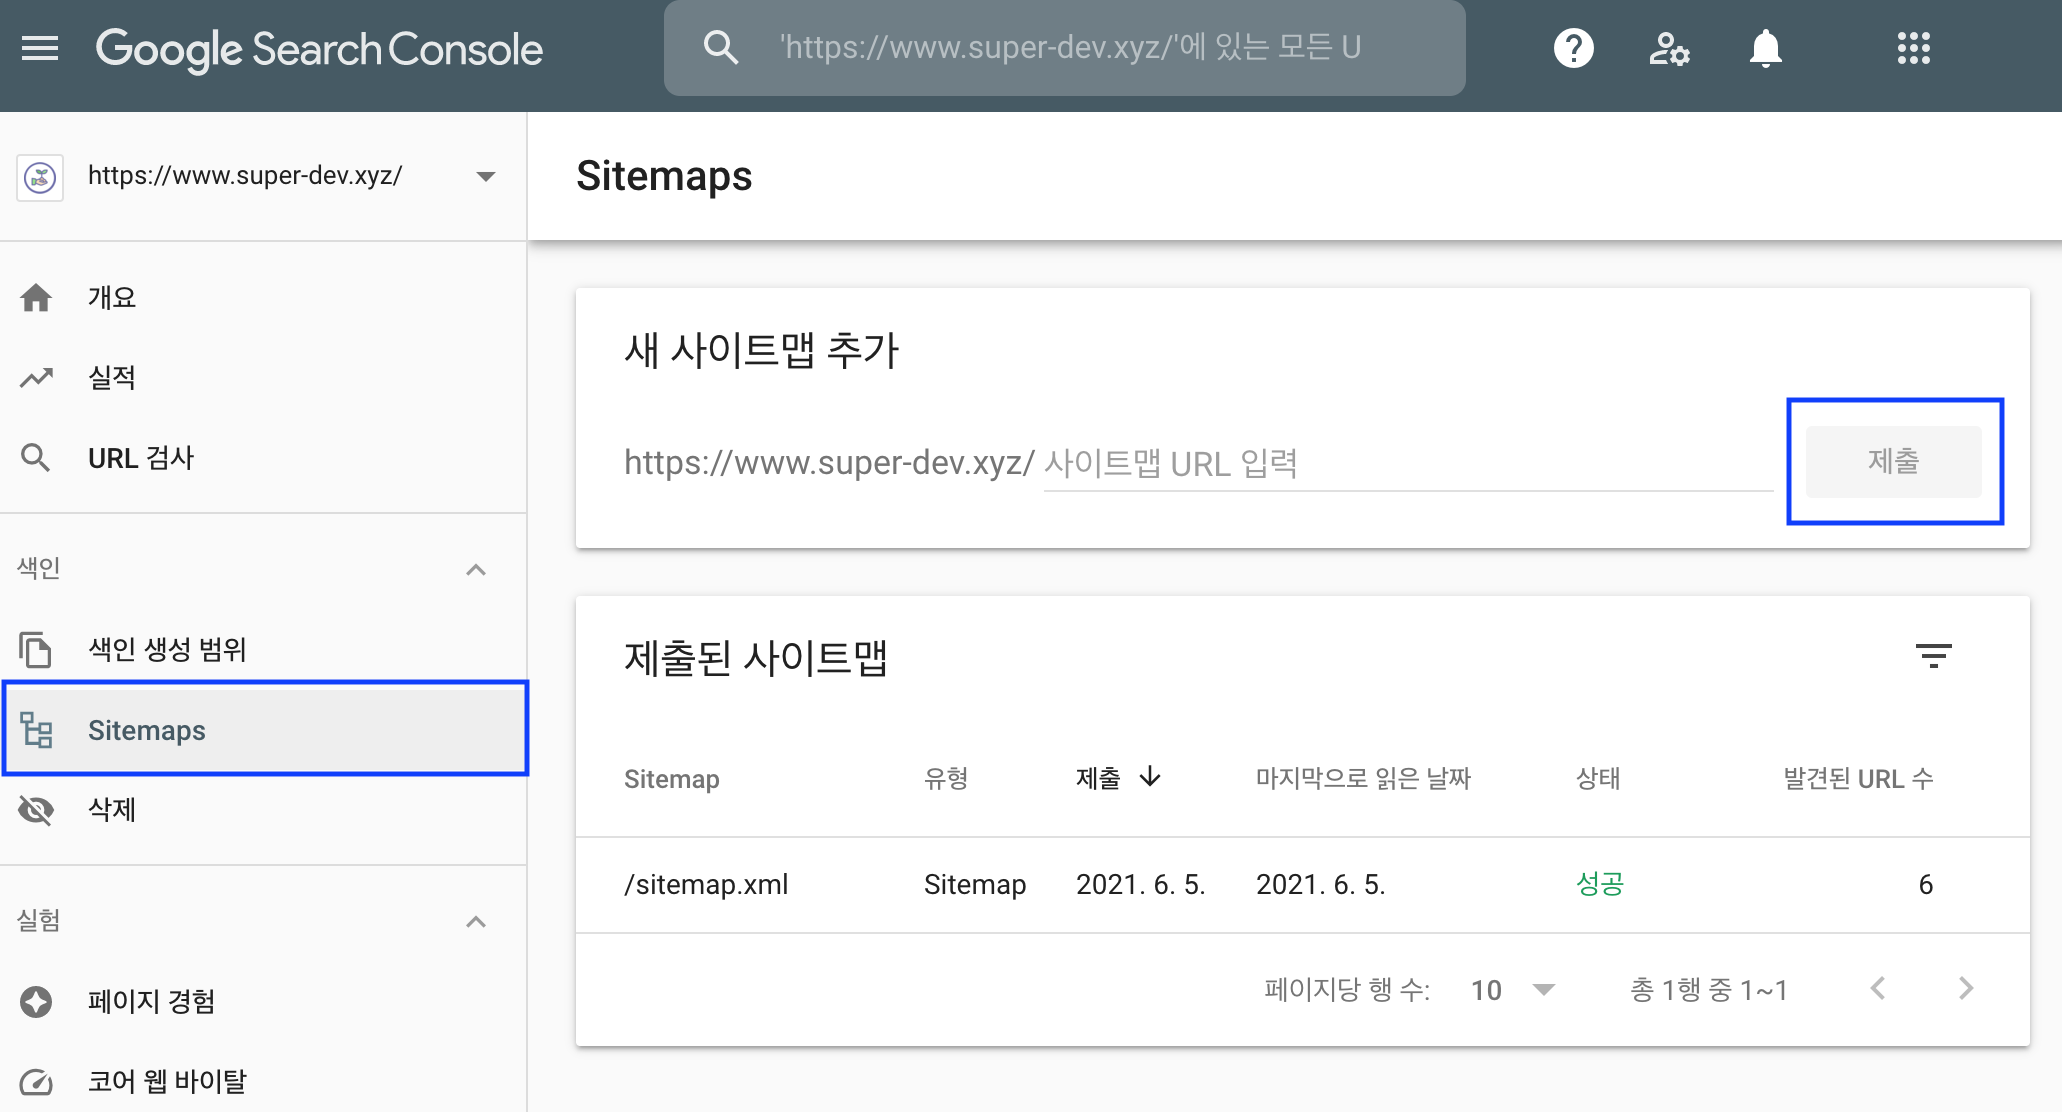
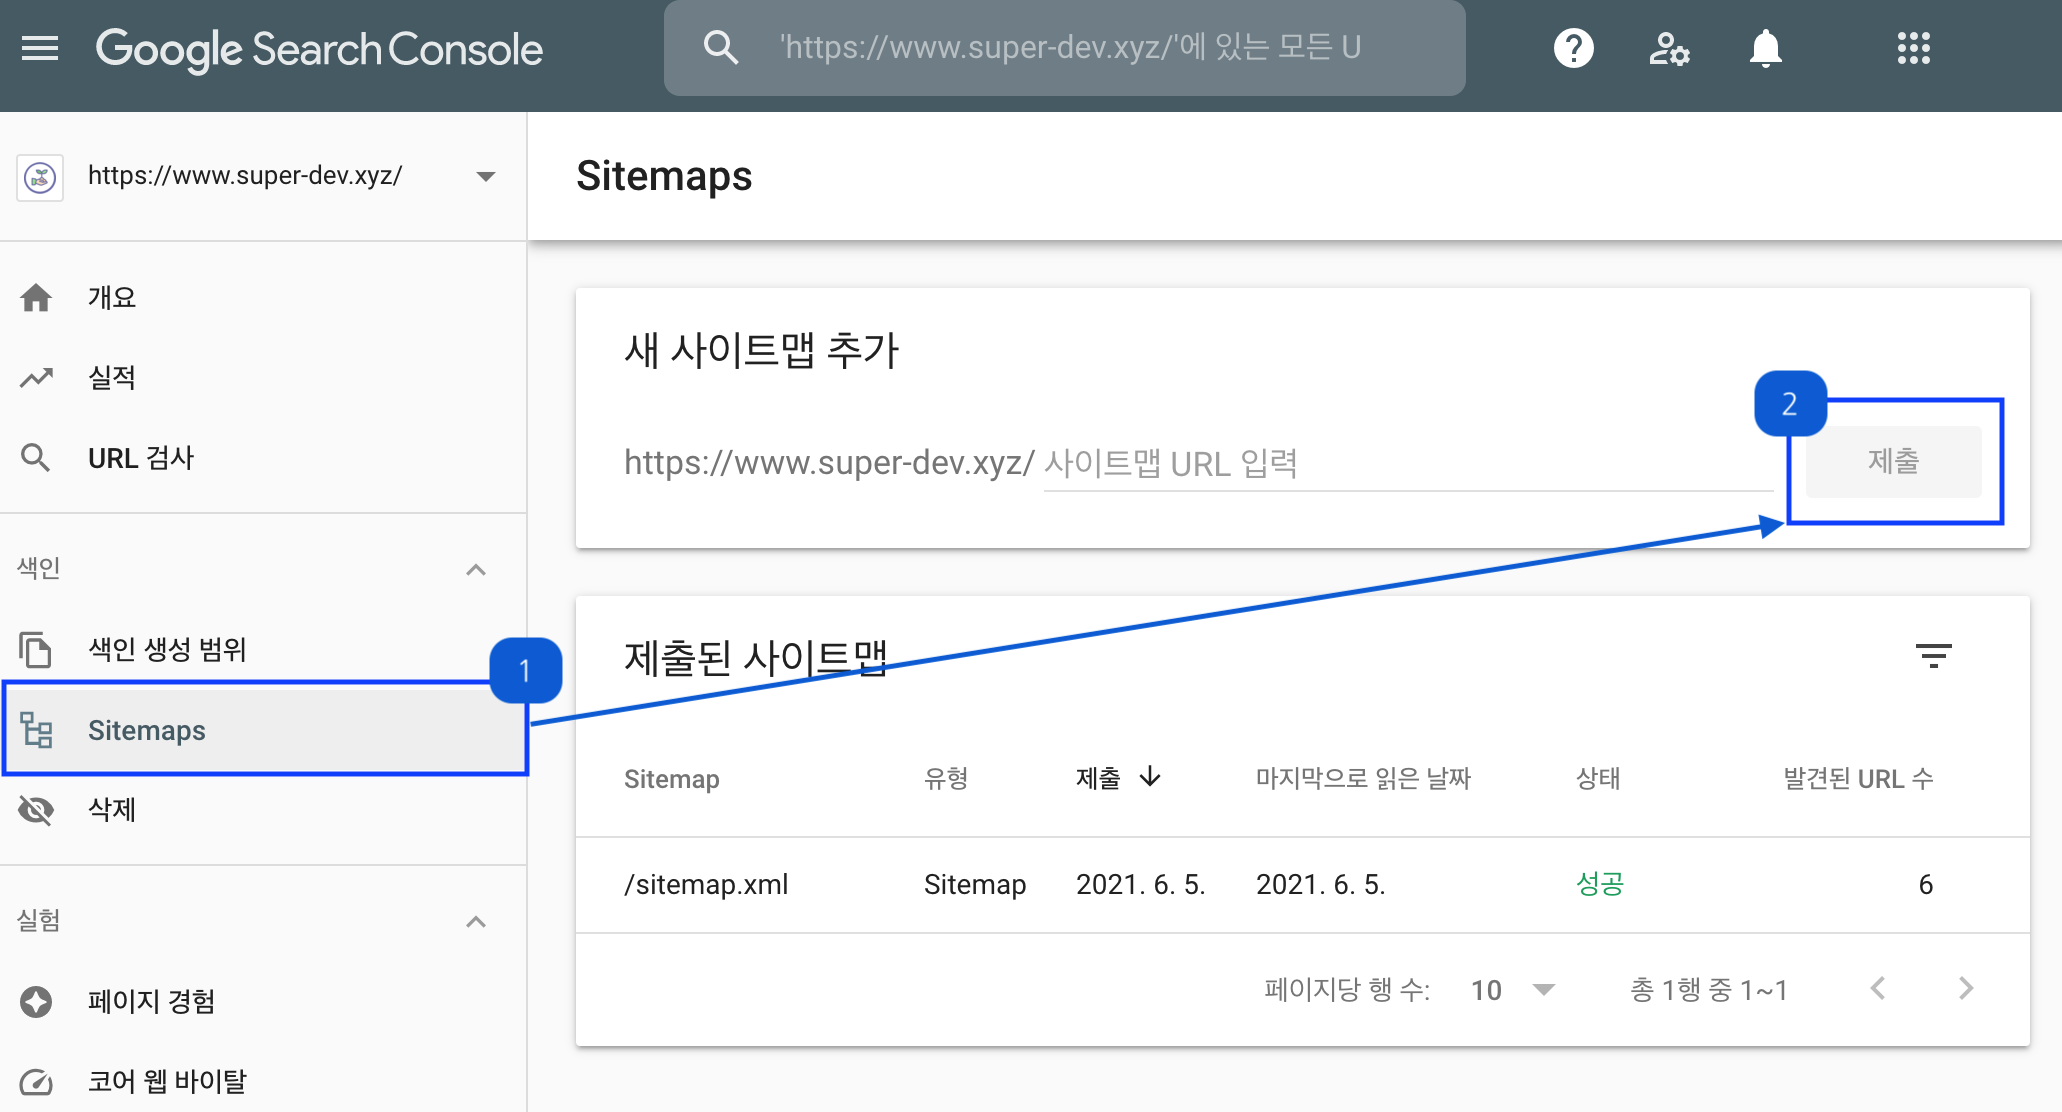
change post

diff --git a/_posts/etc/2021-06-05-seo--register-to-google-search-console.md b/_posts/etc/2021-06-05-seo--register-to-google-search-console.md
@@ -26,7 +26,7 @@ thumbnail: '/asset/images/seo/register-google/thumbnail.png'
 
 <div markdown="1" class="stepper text mb-4">
 <h4 markdown="1" data-step="2" class="title">
-    사이트 맵도 등록해주면 끗
+    `색인 > Sitemaps`탭 선택 한 다음 사이트 맵도 등록해주면 끗
 </h4>
 
 ![step2]({{ "/asset/images/seo/register-google/step2.png"| relative_url }}){:class="thumbnail"}
